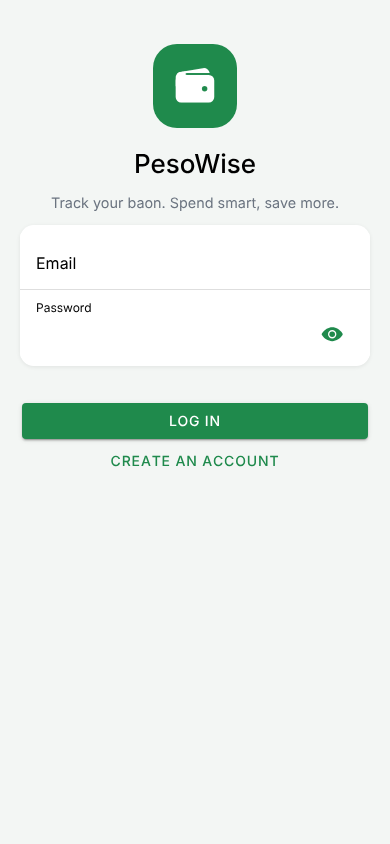
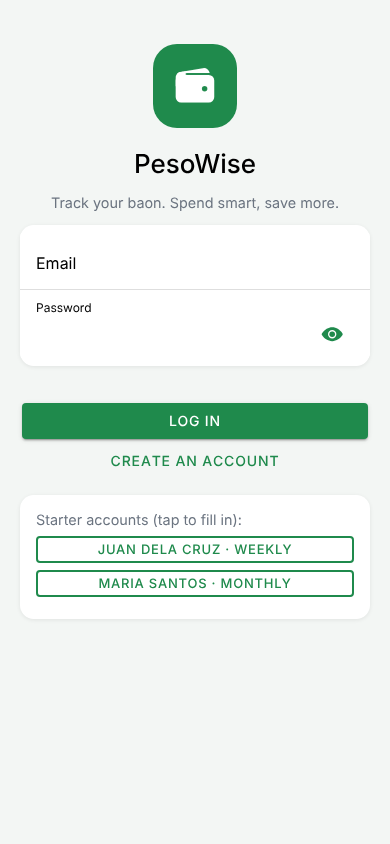
Add two starter accounts with sample expenses

Changed region(s): [[0.0923, 0.5853, 0.9231, 0.7085]]

diff --git a/pesowise/src/services/demo.js b/pesowise/src/services/demo.js
@@ -1,0 +1,78 @@
+// Starter (demo) accounts, created once on the first launch of the app.
+// Each one gets settings and sample expenses so every screen has data to show.
+import { read, write } from './storage'
+import { periodRange, addDays, toKey, todayKey } from './budget'
+
+export const DEMO_ACCOUNTS = [
+  {
+    name: 'Juan Dela Cruz',
+    email: 'juan@pesowise.app',
+    password: 'Juan12345',
+    settings: { allowance: 1000, period: 'week', weekStart: 1, warnAt: 80 },
+    // amounts per day of the period; spends a normal amount
+    plan: [
+      ['food', 'Lunch at canteen', 65], ['transport', 'Jeep to school', 26],
+      ['snacks', 'Milk tea', 49], ['school', 'Photocopy handouts', 35],
+      ['food', 'Breakfast', 45], ['load', 'GoSURF 50', 50],
+      ['transport', 'Tricycle', 30], ['food', 'Dinner', 80],
+      ['snacks', 'Siomai', 30], ['others', 'Org fee', 100]
+    ]
+  },
+  {
+    name: 'Maria Santos',
+    email: 'maria@pesowise.app',
+    password: 'Maria12345',
+    settings: { allowance: 4000, period: 'month', weekStart: 1, warnAt: 70 },
+    // a monthly budget that is already close to the limit
+    plan: [
+      ['transport', 'Bus to Tarlac City', 120], ['food', 'Lunch with friends', 180],
+      ['school', 'Project materials', 350], ['load', 'Load 100', 100],
+      ['food', 'Groceries', 420], ['snacks', 'Coffee', 95],
+      ['transport', 'Grab ride', 210], ['others', 'Birthday gift', 300],
+      ['food', 'Fast food', 160], ['school', 'Printing thesis draft', 240],
+      ['snacks', 'Snacks for group study', 130], ['transport', 'Jeep fare', 52]
+    ]
+  }
+]
+
+const newId = (i) => Date.now().toString(36) + i + Math.random().toString(36).slice(2, 6)
+
+// Spread the sample expenses over the current period and the 2 before it (never in the future)
+function sampleExpenses(account) {
+  const today = todayKey()
+  const list = []
+  let n = 0
+  for (const offset of [0, -1, -2]) {
+    const { start, end } = periodRange(new Date(), offset, account.settings)
+    const length = Math.round((end - start) / 86400000) + 1
+    account.plan.forEach(([category, note, amount], i) => {
+      const date = toKey(addDays(start, Math.floor((i * length) / account.plan.length)))
+      if (date > today) return
+      list.push({ id: newId(n++), createdAt: String(Date.now() + n), category, note, amount, date, photo: null })
+    })
+  }
+  return list.sort((a, b) => (b.date + b.createdAt).localeCompare(a.date + a.createdAt))
+}
+
+// hashPassword is passed in from auth.js so passwords are stored the same way as real accounts
+export async function seedDemoAccounts(hashPassword, randomSalt) {
+  if (read('demo_seeded', false)) return
+  const users = read('users', [])
+  for (const [i, acc] of DEMO_ACCOUNTS.entries()) {
+    if (users.some((u) => u.email === acc.email)) continue
+    const salt = randomSalt()
+    const user = {
+      id: 'demo' + i + Date.now().toString(36),
+      name: acc.name,
+      email: acc.email,
+      salt,
+      hash: await hashPassword(acc.password, salt),
+      createdAt: Date.now()
+    }
+    users.push(user)
+    write(`settings_${user.id}`, { ...acc.settings, vibrate: true, biometric: false })
+    write(`expenses_${user.id}`, sampleExpenses(acc))
+  }
+  write('users', users)
+  write('demo_seeded', true) // only once: a deleted demo account is not created again
+}

diff --git a/pesowise/src/views/LoginPage.vue b/pesowise/src/views/LoginPage.vue
@@ -23,6 +23,20 @@
           <span v-else>Log in</span>
         </ion-button>
         <ion-button expand="block" fill="clear" router-link="/register">Create an account</ion-button>
+
+        <div class="card demo">
+          <p class="muted">Starter accounts (tap to fill in):</p>
+          <ion-button
+            v-for="d in DEMO_ACCOUNTS"
+            :key="d.email"
+            size="small"
+            fill="outline"
+            expand="block"
+            @click="useDemo(d)"
+          >
+            {{ d.name }} · {{ d.settings.period === 'month' ? 'monthly' : 'weekly' }}
+          </ion-button>
+        </div>
       </form>
     </ion-content>
   </ion-page>
@@ -37,12 +51,19 @@ import {
 } from '@ionic/vue'
 import { wallet } from 'ionicons/icons'
 import { login } from '../services/auth'
+import { DEMO_ACCOUNTS } from '../services/demo'
 
 const router = useRouter()
 const email = ref('')
 const password = ref('')
 const error = ref('')
 const loading = ref(false)
+
+function useDemo(d) {
+  email.value = d.email
+  password.value = d.password
+  error.value = ''
+}
 
 async function submit() {
   error.value = ''
@@ -62,3 +83,15 @@ async function submit() {
   }
 }
 </script>
+
+<style scoped>
+.demo {
+  margin-top: 16px;
+}
+.demo p {
+  margin: 0 0 8px;
+}
+.demo ion-button {
+  margin: 6px 0;
+}
+</style>

diff --git a/pesowise/src/main.js b/pesowise/src/main.js
@@ -2,7 +2,7 @@ import { createApp } from 'vue'
 import { IonicVue } from '@ionic/vue'
 import App from './App.vue'
 import router from './router'
-import { restoreSession } from './services/auth'
+import { restoreSession, seedDemos } from './services/auth'
 import { ready } from './services/device'
 
 import '@ionic/vue/css/core.css'
@@ -17,7 +17,7 @@ import './theme/variables.css'
 
 restoreSession()
 
-ready.then(() => {
+Promise.all([ready, seedDemos().catch(() => {})]).then(() => {
   const app = createApp(App).use(IonicVue, { mode: 'md', hardwareBackButton: true }).use(router)
   router.isReady().then(() => app.mount('#app'))
 })

diff --git a/pesowise/src/services/auth.js b/pesowise/src/services/auth.js
@@ -1,6 +1,7 @@
 import { ref } from 'vue'
 import { read, write, remove } from './storage'
 import { loadUserData, clearUserData, deleteUserData } from './store'
+import { seedDemoAccounts } from './demo'
 
 export const currentUser = ref(null)
 export const locked = ref(false)
@@ -34,6 +35,9 @@ function startSession(user) {
   currentUser.value = publicUser(user)
   loadUserData(user.id)
 }
+
+// Creates the starter accounts on the first launch
+export const seedDemos = () => seedDemoAccounts(hashPassword, randomSalt)
 
 export function restoreSession() {
   const session = read('session', null)

diff --git a/pesowise/README.md b/pesowise/README.md
@@ -20,6 +20,20 @@ Built with **Ionic Vue** and packaged as an Android APK with **Apache Cordova**.
 | Fingerprint lock | Optional lock when the app opens or comes back from the background. |
 | Settings | Allowance, weekly or monthly period, week start day, warning level, vibration on or off, change password, a "Device access" list that tests the camera, vibration and fingerprint, sample data for demos, delete all expenses, delete account. |
 
+## Starter accounts
+
+Two demo accounts are created automatically the first time the app is opened. Each one already has
+sample expenses for the current period and the 2 before it, so every screen has data to show. On the
+login screen, tap an account's button to fill in its email and password.
+
+| Name | Email | Password | Budget |
+| --- | --- | --- | --- |
+| Juan Dela Cruz | juan@pesowise.app | Juan12345 | ₱1,000 per week, warning at 80% |
+| Maria Santos | maria@pesowise.app | Maria12345 | ₱4,000 per month, warning at 70% |
+
+They are created only once. If you delete a demo account, it does not come back unless you clear the
+app's data (Android: App info > Storage > Clear data).
+
 ## Tech stack
 
 | Part | Used |
@@ -54,6 +68,7 @@ pesowise/
    ├─ services/
    │  ├─ storage.js          localStorage wrapper
    │  ├─ auth.js             Register, login, password hashing, lockout
+   │  ├─ demo.js             Starter accounts and their sample expenses
    │  ├─ store.js            Expenses, settings and categories
    │  ├─ budget.js           Week / month ranges, totals, budget status
    │  ├─ device.js           Camera, vibration, fingerprint (Cordova plugins)
@@ -164,7 +179,7 @@ Send it to the phone and install it (allow "Install unknown apps" if asked).
 
 ## Testing on a phone
 
-1. Register, then go to **Settings** and set your allowance (for example ₱1,000 per week).
+1. Log in with a starter account, or register and set your allowance in **Settings** (for example ₱1,000 per week).
 2. Tap **+** on Home and add an expense with a receipt photo.
 3. Add expenses until you pass the warning level. The phone vibrates and the Home card turns orange.
    Go over the allowance and it vibrates again and turns red.
